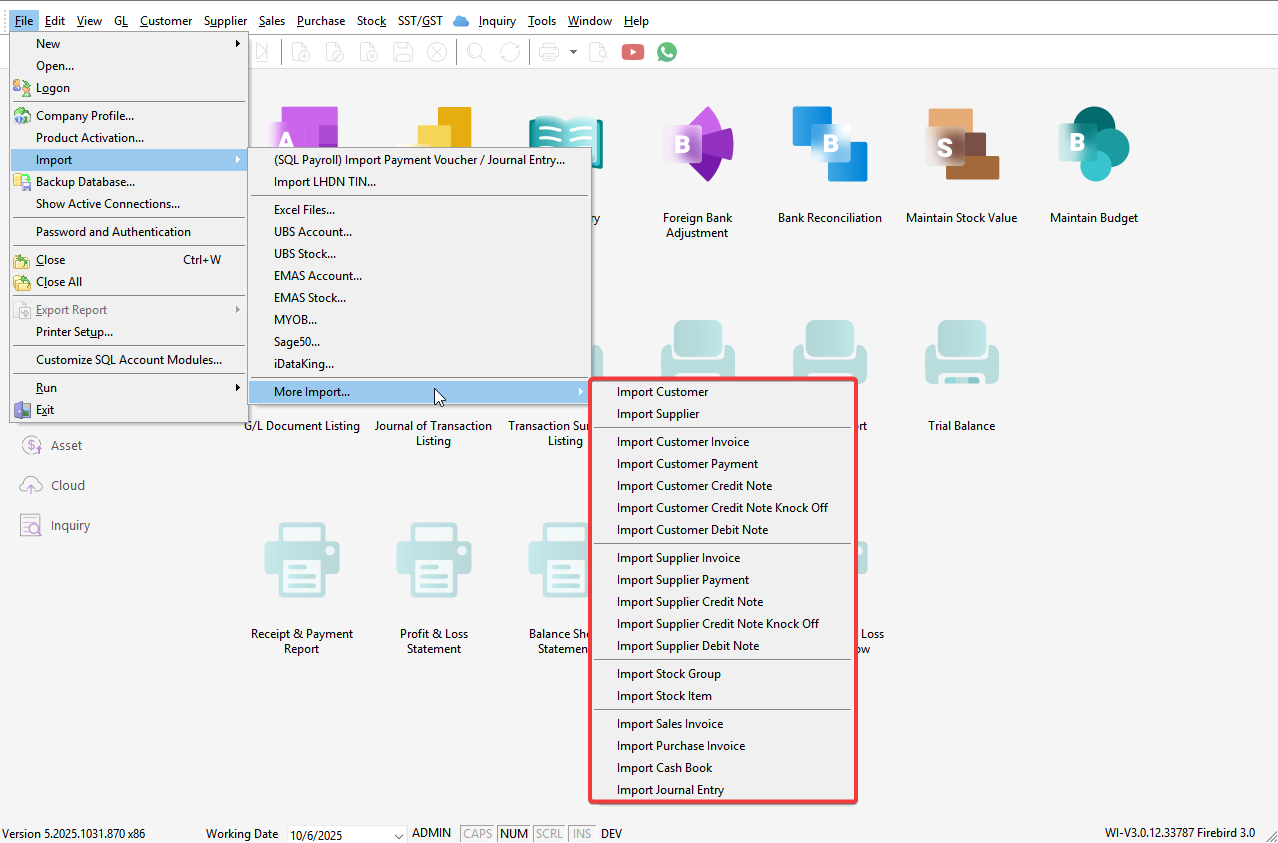
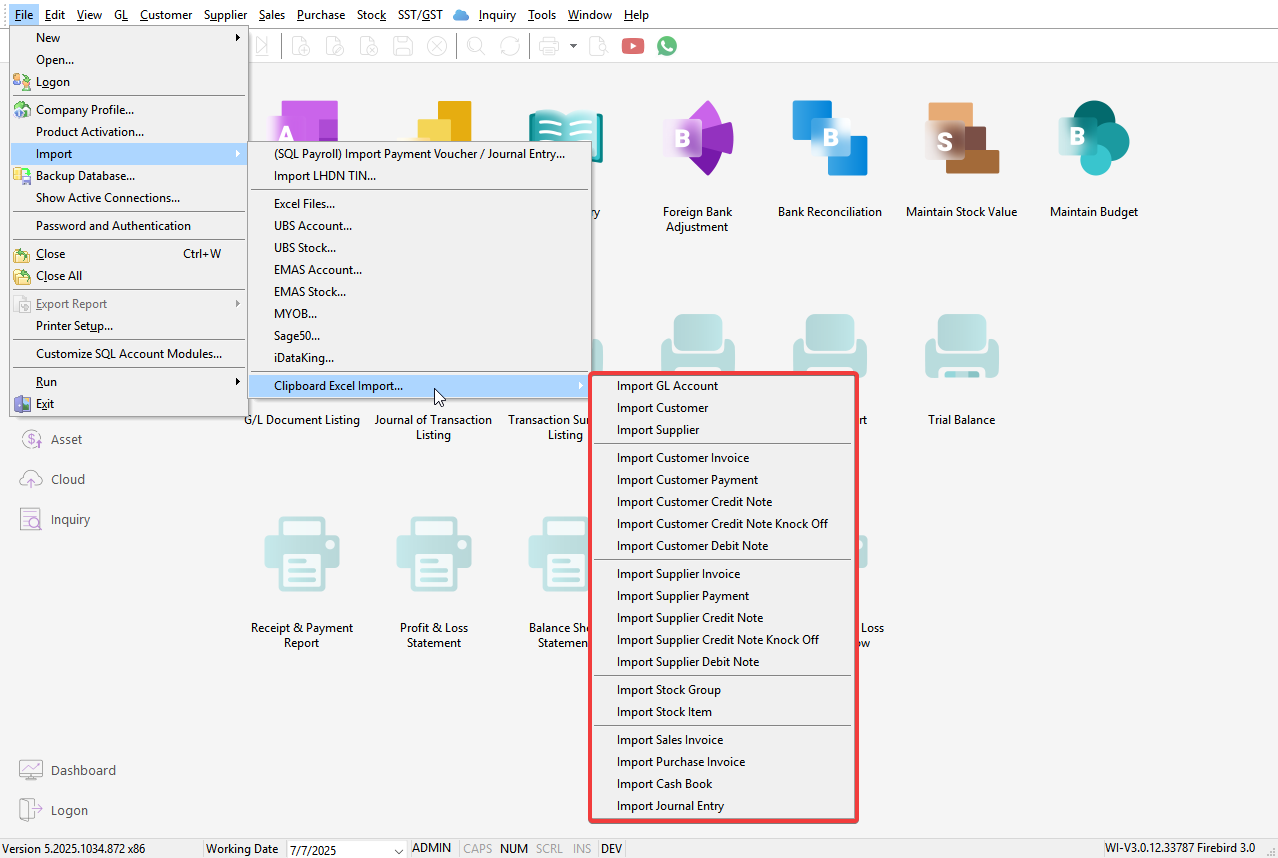
refactor: update clipboard import guide (#45)

diff --git a/docs/miscellaneous/clipboard-import.md b/docs/miscellaneous/clipboard-import.md
@@ -15,7 +15,7 @@ Clipboard Import allows users to import master and transaction data by simply co
 
 ### Download Excel Template
 
-Click this link: [Template](https://cdn.sql.com.my/wp-content/uploads/2025/06/SQLAcc-ImportClipboard.xlsx)
+Click this link: [Template](https://cdn.sql.com.my/wp-content/uploads/2025/07/SQLAcc-ImportClipboard.xlsx)
 
 ### Maintain Master Data
 
@@ -41,13 +41,15 @@ Always import **Master Data** first, then import **Transactions**.
     Do not modify the field name. Modifying them may result in import errors.
     :::
 
-## Import Steps
+## Usage
+
+### Import Steps
 
 1. Select and **Copy (Ctrl + C)** the table in Excel, including with field name
 
     ![4](../../static/img/miscellaneous/clipboard-import/4.png)
 
-2. Go to **File** > **Import** > **More Import** and select the table
+2. Go to **File** > **Import** > **Clipboard Excel Import** and select the table
 
     ![5](../../static/img/miscellaneous/clipboard-import/5.png)
 
@@ -66,7 +68,7 @@ Always import **Master Data** first, then import **Transactions**.
     :::info
     **New**: Inserts master and detail records. <br/>
     **Update**: Udpates the master table and appends the detail records. <br/>
-    **Error**: You can directly **edit** the grid then **Select All** and click **Validate** again.
+    **Error**: You can **edit** the grid then **Select All** and click **Validate** again or use **[Quick Fix](#quick-fix)**.
     :::
 
 6. Click **Import**
@@ -76,3 +78,39 @@ Always import **Master Data** first, then import **Transactions**.
     :::
 
     ![9](../../static/img/miscellaneous/clipboard-import/9.png)
+
+### Quick Fix
+
+Quick Fix helps you automatically fix errors, such as missing values. It can create missing items (like Agent or Area) or let you select a default value for empty field.
+
+1. After **Validate**, record with *Error* status will be unticked. Click **Select All** or tick records that need to be fixed
+
+    :::tip
+    Quick Fix only works for records with an Error status.
+    :::
+
+    ![10](../../static/img/miscellaneous/clipboard-import/10.png)
+
+2. Click **Quick Fix**
+
+    ![11](../../static/img/miscellaneous/clipboard-import/11.png)
+
+3. For empty value error, select a default value 
+
+    ![12](../../static/img/miscellaneous/clipboard-import/12.png)
+
+4. Error is fixed
+
+    ![13](../../static/img/miscellaneous/clipboard-import/13.png)
+
+### Auto Generate DocNo
+
+Use **`<<New>>n`** in the DocNo field for each set where *n* is a number
+
+![14](../../static/img/miscellaneous/clipboard-import/14.png)
+
+## Additional Information
+
+1. Customer / Supplier branch's detail will be updated when *BranchName* already exist. 
+
+2. First customer / supplier branch type is *Billing*. Ensure billing details always in the first record during import.
